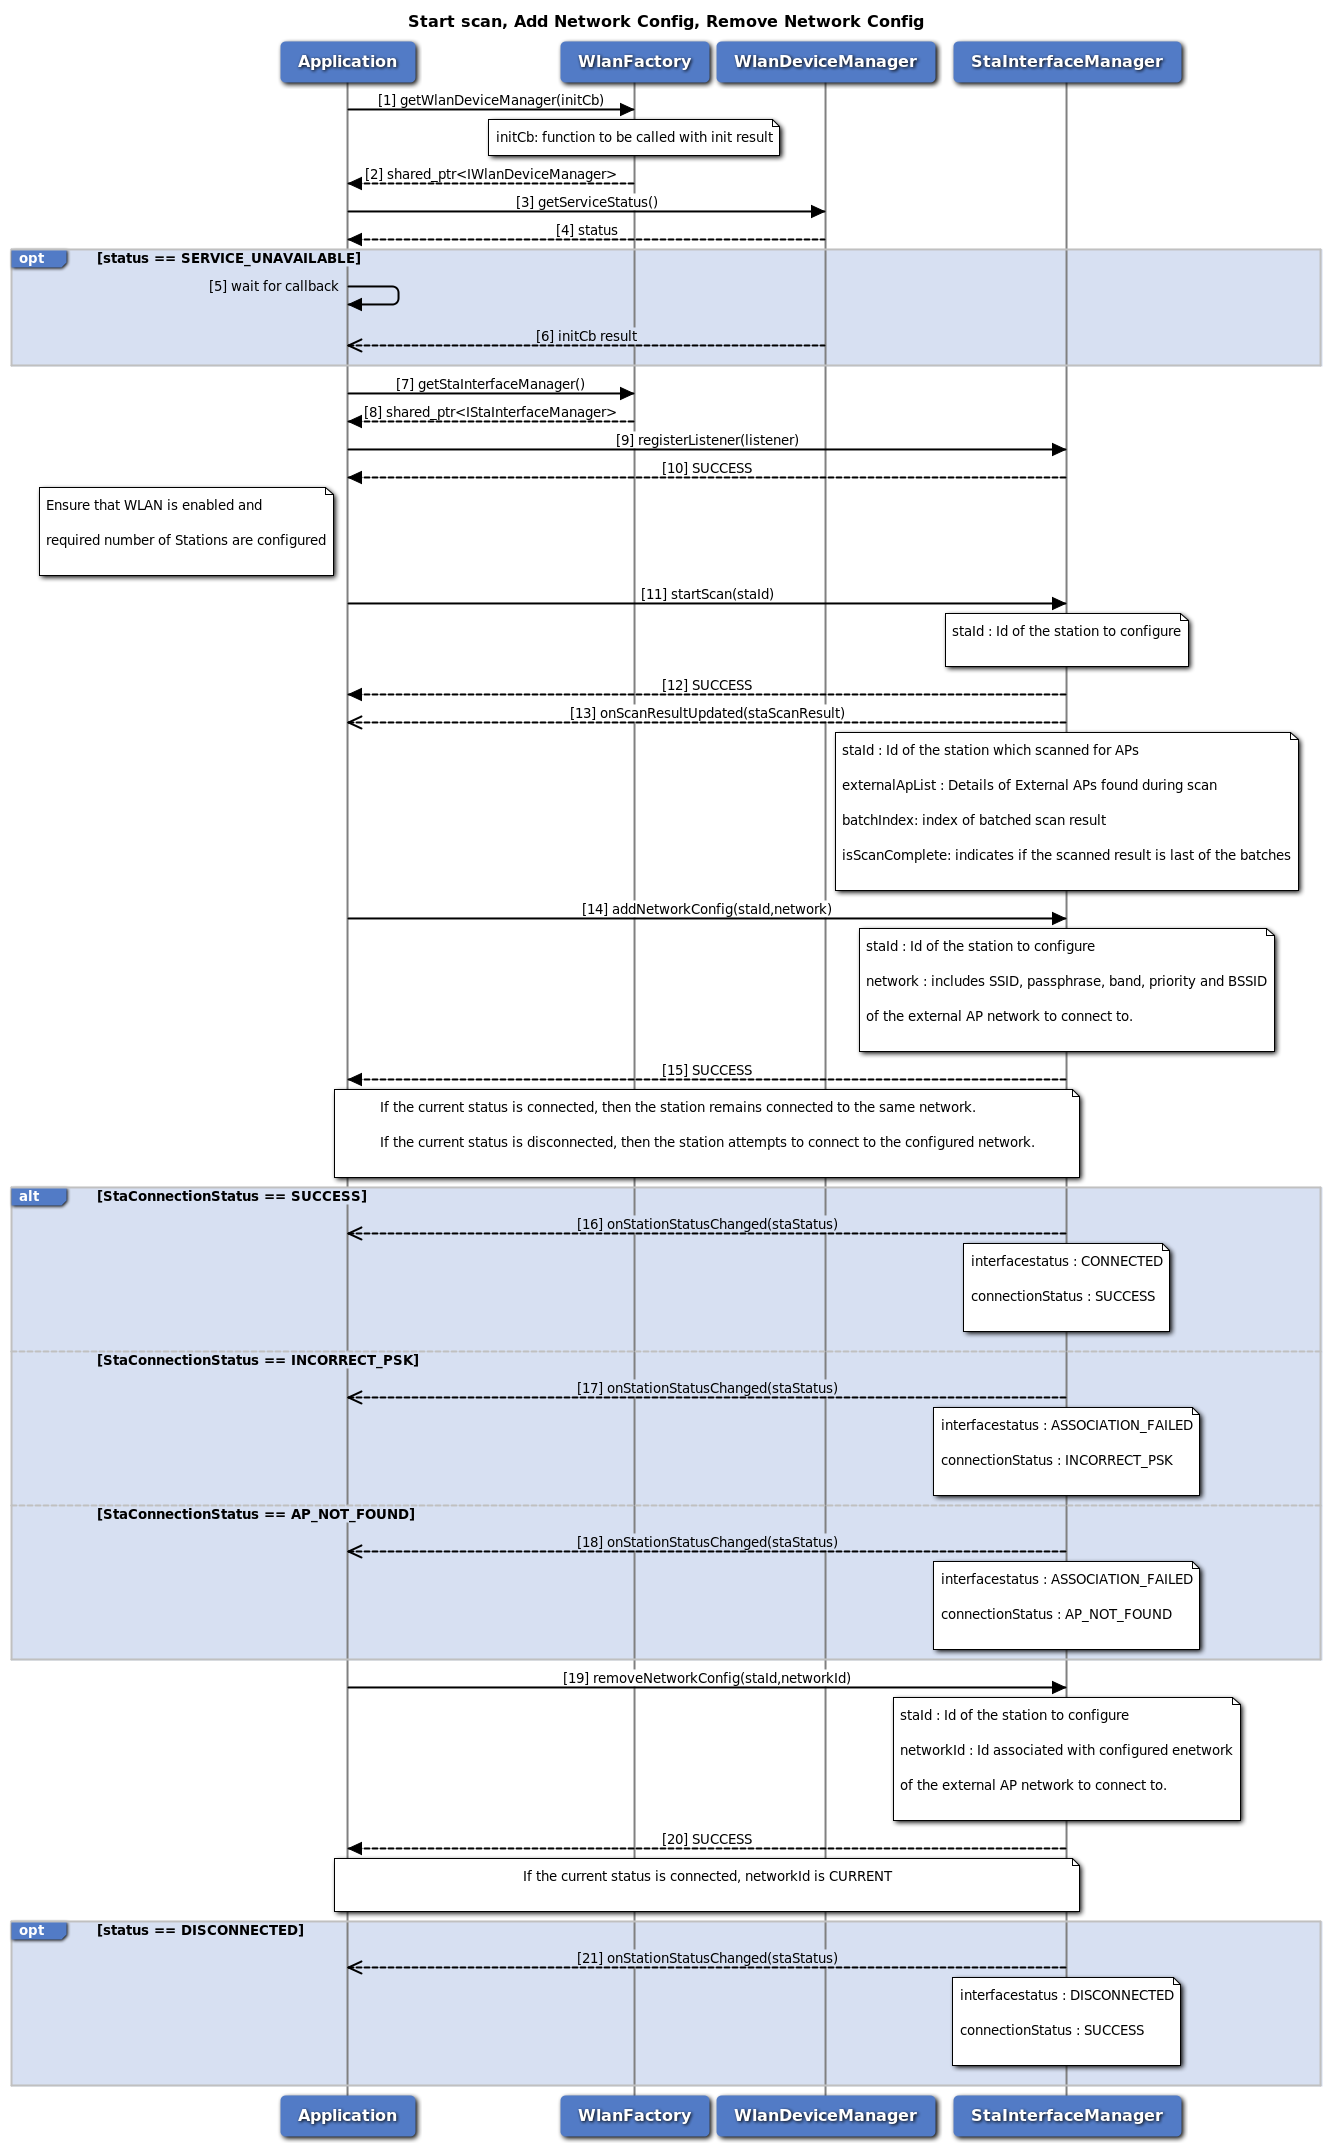
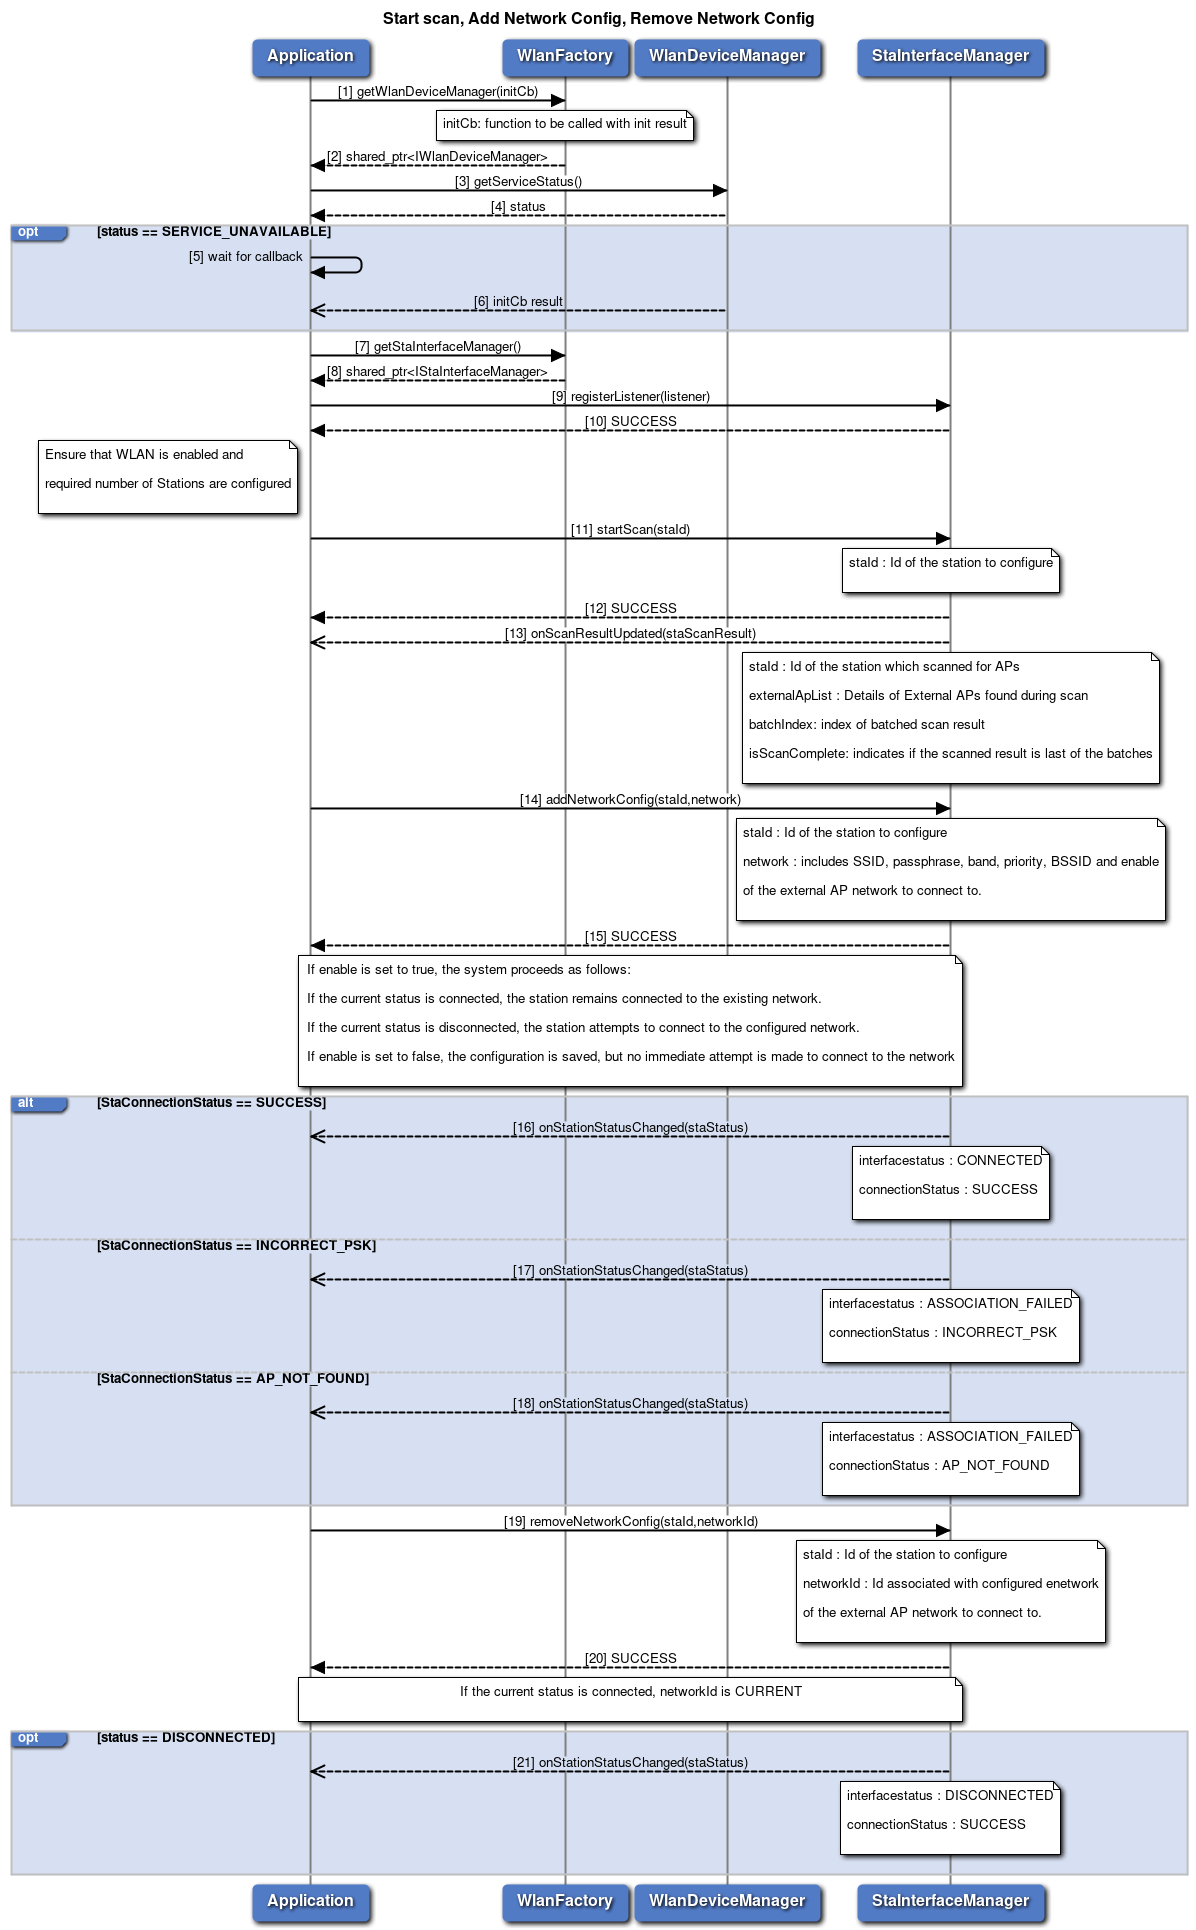
wlan: STA API Updates improvements
- Updated API documentation and callflow.

CRs-Fixed: 4171861

Changed region(s): [[0.0, 0.0, 1.0, 1.0], [0.0928, 0.8705, 0.2166, 0.9016], [0.0, 0.8705, 0.0619, 0.9637]]

diff --git a/apps/samples/wlan/wlan_sta_config_app/WlanStaConfigApp.cpp b/apps/samples/wlan/wlan_sta_config_app/WlanStaConfigApp.cpp
@@ -472,6 +472,7 @@ int main(int argc, char *argv[]) {
     }
     staNetworkConfigEntry.priority = priority;
     staNetworkConfigEntry.bssid = bssid;
+    staNetworkConfigEntry.enable = true;
 
     ret = app->addNetworkConfig(staNetworkConfigEntry);
     if (ret < 0) {

diff --git a/qdocs/api_reference/general/call_flow_diagrams.rst b/qdocs/api_reference/general/call_flow_diagrams.rst
@@ -3321,7 +3321,7 @@ Call flow to start scan, add network config, or remove network config
 8. Application calls IStaInterfaceManager::startScan to initiate station scan process.
 9. Application receives the result (SUCCESS or suitable failure) of startScan request.
 9. Application receives onScanResultUpdated() notification when scan results are available.
-10. Application calls IStaInterfaceManager::AddNetworkConfig to add and store new network configuration persistently.
+10. Application calls IStaInterfaceManager::addNetworkConfig to add and store new network configuration persistently. If the enable flag is set to true, the system proceeds as follows:
 
    a. If the requested station is already in connected state, the new configuration is stored and no attempt would be made to connect
       to the requested network.
